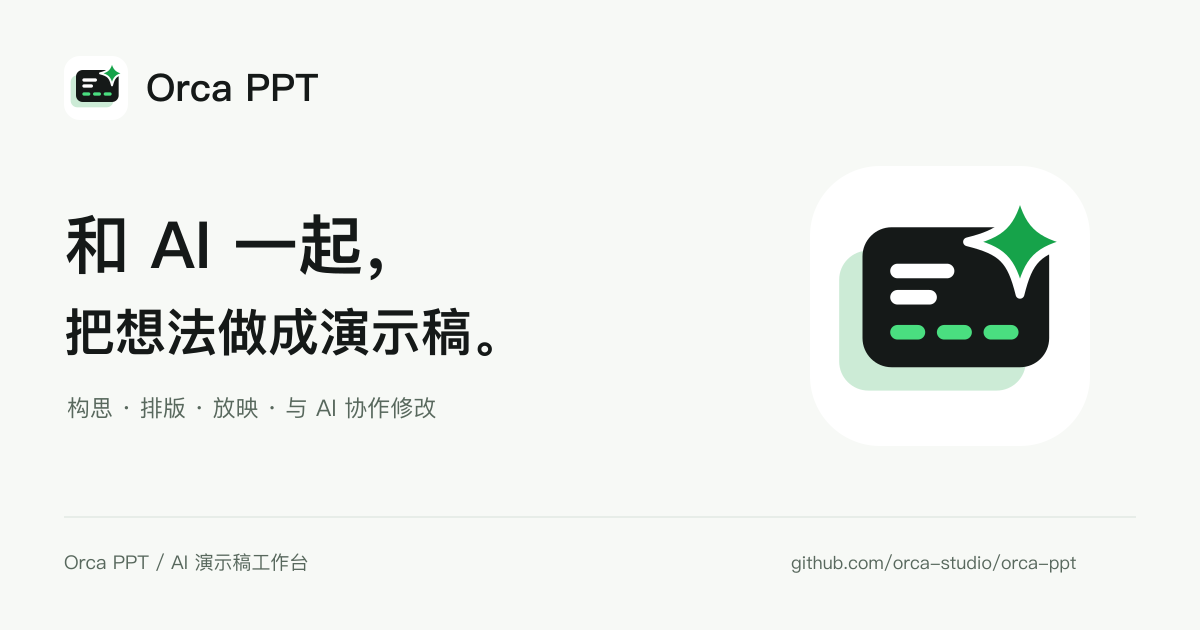
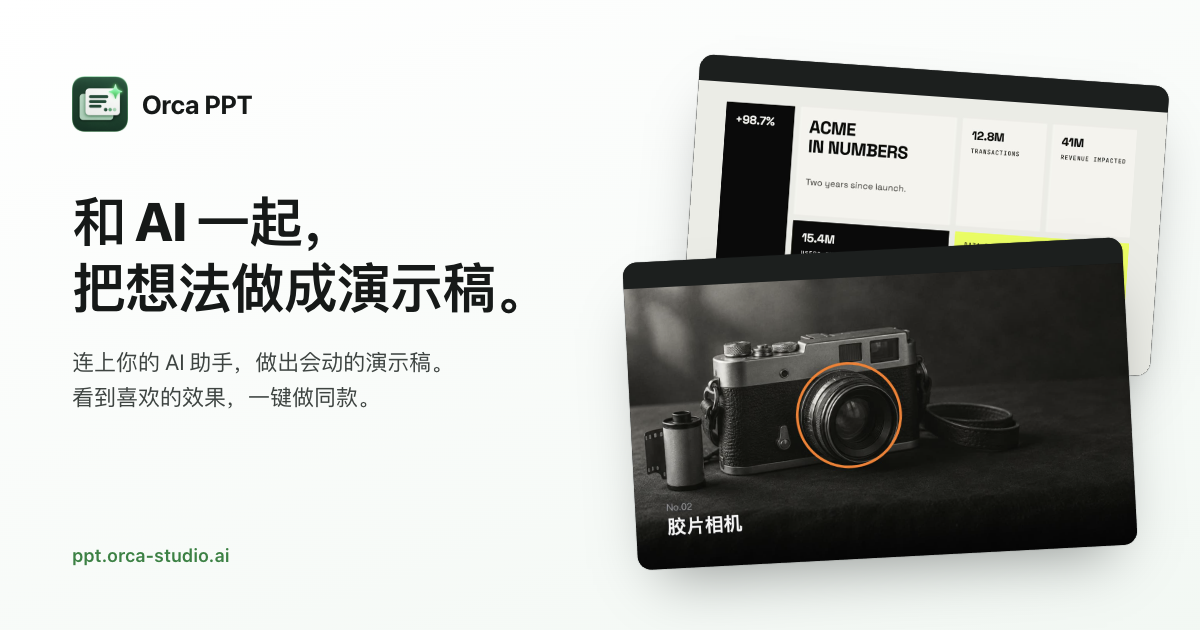
chore(brand): drop the old mark and promo assets
The app icon (dark-green plate) is the only mark now. Removed the old
orca-mark.svg, wordmark, square avatar, launch banner and social square,
all still carrying the September mark. New social card (og:image, README
banner) is laid out in docs/brand/src/social-card.html with the new icon
and two real recipe stills. The app's browser icon uses the new icon.

site/build.mjs: markdown in a sample dir no longer invalidates its
preview clip.

diff --git a/docs/brand/src/social-card.html b/docs/brand/src/social-card.html
@@ -1,0 +1,107 @@
+<!doctype html>
+<!-- 分享卡片 / README 横幅的排版源文件。改文案后用浏览器按 1200×630 截图,存成 ../social-card-1200x630.png。
+     画面用的是两个同款样片的封面帧(still-*.jpg),图标是 ../orca-app-icon.png 裁到底板的 256 派生 -->
+<html lang="zh-CN">
+  <head>
+    <meta charset="utf-8" />
+    <style>
+      * {
+        box-sizing: border-box;
+        margin: 0;
+      }
+      html,
+      body {
+        width: 1200px;
+        height: 630px;
+      }
+      body {
+        position: relative;
+        overflow: hidden;
+        background: linear-gradient(160deg, #ffffff 0%, #f1f8f3 100%);
+        color: #151918;
+        font-family: -apple-system, BlinkMacSystemFont, 'PingFang SC', sans-serif;
+        -webkit-font-smoothing: antialiased;
+      }
+      .copy {
+        position: absolute;
+        left: 72px;
+        top: 76px;
+        width: 520px;
+      }
+      .brand {
+        display: flex;
+        align-items: center;
+        gap: 14px;
+        font-size: 26px;
+        font-weight: 700;
+        letter-spacing: -0.01em;
+      }
+      .brand img {
+        width: 56px;
+        height: 56px;
+      }
+      h1 {
+        margin-top: 56px;
+        font-size: 54px;
+        line-height: 1.22;
+        font-weight: 800;
+        letter-spacing: -0.02em;
+      }
+      p {
+        margin-top: 24px;
+        font-size: 22px;
+        line-height: 1.6;
+        color: #3c4441;
+      }
+      .url {
+        position: absolute;
+        left: 72px;
+        bottom: 64px;
+        font-size: 18px;
+        font-weight: 600;
+        color: #12833c;
+        letter-spacing: 0.02em;
+      }
+      .shot {
+        position: absolute;
+        border-radius: 14px;
+        overflow: hidden;
+        background: #0f1211;
+        box-shadow:
+          0 30px 60px -24px rgba(21, 25, 24, 0.45),
+          0 0 0 1px rgba(21, 25, 24, 0.08);
+      }
+      .shot i {
+        display: block;
+        height: 26px;
+        background: #1b1f1e;
+      }
+      .shot img {
+        display: block;
+        width: 100%;
+      }
+      .back {
+        left: 690px;
+        top: 70px;
+        width: 470px;
+        transform: rotate(4deg);
+      }
+      .front {
+        left: 630px;
+        top: 250px;
+        width: 500px;
+        transform: rotate(-3deg);
+      }
+    </style>
+  </head>
+  <body>
+    <div class="copy">
+      <div class="brand"><img src="orca-icon.png" alt="" />Orca PPT</div>
+      <h1>和 AI 一起，<br />把想法做成演示稿。</h1>
+      <p>连上你的 AI 助手，做出会动的演示稿。<br />看到喜欢的效果，一键做同款。</p>
+    </div>
+    <div class="url">ppt.orca-studio.ai</div>
+    <div class="shot back"><i></i><img src="still-neo-grid.jpg" alt="" /></div>
+    <div class="shot front"><i></i><img src="still-story-circle.jpg" alt="" /></div>
+  </body>
+</html>

diff --git a/apps/web/index.html b/apps/web/index.html
@@ -6,7 +6,7 @@
       http-equiv="Content-Security-Policy"
       content="default-src 'self'; connect-src ws://127.0.0.1:* http://127.0.0.1:*; img-src 'self' data: file: http://127.0.0.1:*; media-src http://127.0.0.1:*; style-src 'self' 'unsafe-inline'; child-src http://127.0.0.1:*"
     />
-    <link rel="icon" type="image/svg+xml" href="/brand/orca-mark.svg" />
+    <link rel="icon" type="image/png" href="/brand/orca-icon.png" />
     <title>Orca PPT</title>
   </head>
   <body>

diff --git a/docs/brand/README.md b/docs/brand/README.md
@@ -2,30 +2,40 @@
 
 定位：和 AI 一起，把想法做成演示稿。连接用户自己的 AI agent，支持构思、制作、放映和带位置的修改意见。
 
-## 主标志
+## 主标志：应用图标
 
-叠放的幻灯片表示演示稿，页内短线表示内容排版，绿色四角星表示 AI 辅助创作。黑白保持工具感，绿色沿用应用强调色。虎鲸仅作可选吉祥物，不作主 logo。
+深墨绿圆角底板，白色幻灯片叠放，页内短线表示内容排版，亮绿四角星表示 AI 辅助创作。
+所有地方都用这一个图标，不另外维护矢量标志或字标。虎鲸只作可选吉祥物，不作主标志。
 
-| 文件                                   | 用途                                                                                                               |
-| -------------------------------------- | ------------------------------------------------------------------------------------------------------------------ |
-| `orca-mark.svg`                        | 矢量标志；应用使用 `apps/web/public/brand/orca-mark.svg`，修改时同步                                               |
-| `orca-app-icon.png`                    | 1024 × 1024 深墨绿圆角底板图标;桌面壳用它派生 `apps/desktop/assets/icon.png`(macOS 留白,824 居中加投影),修改时同步 |
-| `orca-avatar-square.png` / `.svg`      | 1024 × 1024 完整白底正方形头像，无透明角                                                                           |
-| `orca-wordmark.png` / `.svg`           | 横向标志与字标                                                                                                     |
-| `launch-banner-1920x1080.png` / `.svg` | 16:9 产品宣传横幅                                                                                                  |
-| `social-square-1080.png` / `.svg`      | 1:1 社交海报，标注流程明确为示意                                                                                   |
-| `social-card-1200x630.png` / `.svg`    | 社交分享卡片                                                                                                       |
-| `orca-mascot-avatar.png`               | 可选 3D 虎鲸吉祥物，不用于产品主标志                                                                               |
+| 文件                            | 用途                                                                            |
+| ------------------------------- | ------------------------------------------------------------------------------- |
+| `orca-app-icon.png`             | 1024 × 1024 源图（四周带透明边）。下面这些都由它派生，改图标只改它，再重新派生  |
+| `orca-app-icon-imagegen-v1.png` | imagegen 的原始候选，提示词在 `app-icon-prompt.txt`                             |
+| `social-card-1200x630.png`      | 分享卡片：官网的 og:image、README 顶部横幅。排版源文件是 `src/social-card.html` |
+| `orca-mascot-avatar.png`        | 可选的 3D 虎鲸吉祥物，提示词在 `mascot-prompt.md`。不用于产品主标志             |
 
-主标志与宣传素材的 SVG 是可编辑源文件；PNG 可直接上传。应用图标由 Codex 内置 imagegen 生成，原始候选保存在 `orca-app-icon-imagegen-v1.png`，当前图标 PNG 为缩放派生，不提供对应 SVG。文字采用系统字体栈，跨系统编辑时需确认字体与换行。
+由 `orca-app-icon.png` 派生的文件（裁到底板再缩放）：
 
-品牌色：墨黑 `#151918`、绿色 `#16a34a`、浅绿 `#ccebd6`、白色 `#ffffff`。应用图标采用深墨绿底板、白色幻灯片主体和亮绿四角星，以细亮边保持深色背景下的轮廓；其他品牌素材沿用白底。头像交给平台裁切，不预先切圆角。
+| 派生文件                                                                                | 用在哪                                     |
+| --------------------------------------------------------------------------------------- | ------------------------------------------ |
+| `apps/desktop/assets/icon.png`                                                          | 桌面应用图标（macOS 留白，824 居中加投影） |
+| `apps/web/public/brand/orca-icon.png`                                                   | 应用界面的浏览器图标（256）                |
+| `site/src/brand/orca-icon.png`、`site/src/favicon.ico`、`site/src/apple-touch-icon.png` | 官网                                       |
+| `docs/brand/src/orca-icon.png`                                                          | 分享卡片排版用                             |
+| `apps/server/src/mcp-http.ts` 里的内联图标                                              | MCP 连接时给宿主显示的图标（256）          |
 
-## 文案与使用
+## 改分享卡片
+
+1. 改 `src/social-card.html` 的文案或画面（`src/still-*.jpg` 是两份同款样片的封面帧）。
+2. 用浏览器按 1200 × 630 截图，覆盖 `social-card-1200x630.png`。
+3. 拷一份到 `site/src/brand/`（官网的 og:image 用它）。
+
+## 品牌色
+
+墨黑 `#151918`、绿色 `#16a34a`、浅绿 `#ccebd6`、白色 `#ffffff`。应用图标底板是深墨绿 `#12372b`。
+
+## 文案
 
 - 主标题：和 AI 一起，把想法做成演示稿。
-- 社交标题：AI 帮你做稿，你来决定精彩。
-- 说明：连接你的 AI agent，从想法走到成稿。
+- 说明：连上你的 AI 助手，做出会动的演示稿。看到喜欢的效果，一键做同款。
 - 产品生成 HTML 演示稿；不要宣传成已支持导出 PowerPoint `.pptx`、录制视频或内置独立模型。
-
-主 logo、字标与宣传排版直接用 SVG 制作。3D 吉祥物使用内置 image_gen 生成，提示词见 `mascot-prompt.md`。

diff --git a/README.md b/README.md
@@ -2,7 +2,7 @@
 
 **和 AI 一起，把想法做成演示稿。**
 
-![Orca PPT](./docs/brand/launch-banner-1920x1080.png)
+![Orca PPT](./docs/brand/social-card-1200x630.png)
 
 Orca PPT 是一个桌面应用，让你用自己的 AI 助手（比如 Claude Code）做出**会动的演示稿**：
 翻页时，标题会滑到新的位置，卡片会展开成整页，数字会变成图表 —— 像发布会上那样连贯，
